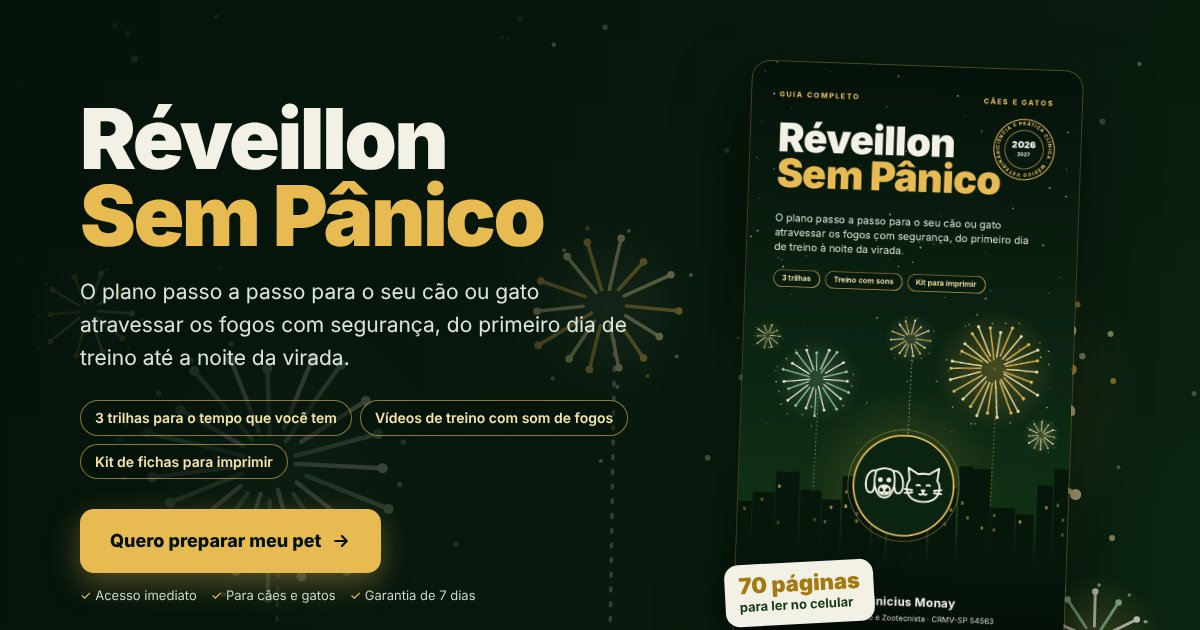
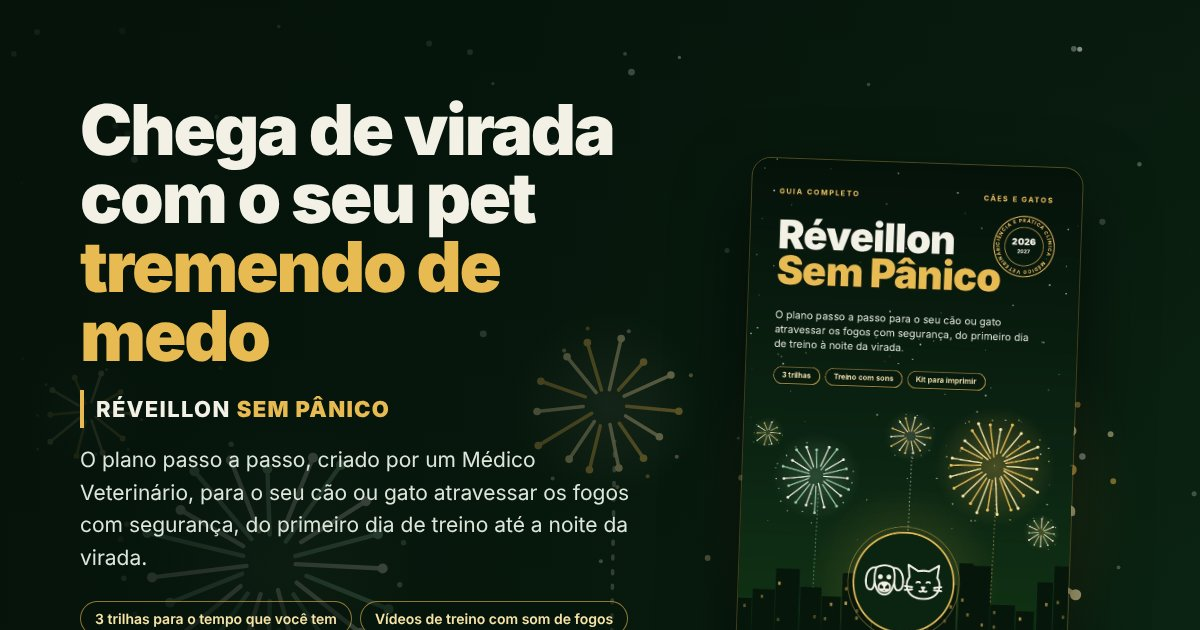
Headline nova e parcelamento em até 6x
Claude-Session: https://claude.ai/code/session_019R319nvtaj1zU2KwUhk84R

Changed region(s): [[0.0617, 0.1508, 0.5858, 1.0], [0.5858, 0.1206, 0.9558, 1.0], [0.8942, 0.5429, 0.925, 0.573]]

diff --git a/index.html b/index.html
@@ -38,9 +38,10 @@ h2 em{font-style:normal;color:var(--golddk)}
 .hero svg.sky{position:absolute;inset:0;width:100%;height:100%;opacity:.95}
 .hero::after{content:"";position:absolute;inset:0;background:linear-gradient(90deg,rgba(5,18,10,.92) 0%,rgba(5,18,10,.7) 46%,rgba(5,18,10,.15) 100%)}
 .hero .wrap{position:relative;z-index:2;display:grid;grid-template-columns:1.15fr .85fr;gap:40px;align-items:center;padding-top:72px;padding-bottom:80px}
-.hero h1{margin:14px 0 0;font-size:clamp(46px,8vw,84px);line-height:.92;letter-spacing:-.03em;font-weight:900}
+.hero h1{margin:16px 0 0;font-size:clamp(40px,6.4vw,70px);line-height:.98;letter-spacing:-.03em;font-weight:900}
+.hero .brand{display:inline-block;margin-top:20px;font-size:clamp(18px,2.2vw,22px);font-weight:800;letter-spacing:.06em;text-transform:uppercase;color:var(--cream);border-left:4px solid var(--gold);padding:2px 0 2px 12px} .hero .brand b{color:var(--gold)}
 .hero h1 em{font-style:normal;color:var(--gold);display:block}
-.hero .sub{font-size:clamp(18px,2.2vw,21px);color:#DCE6DA;margin:22px 0 26px;max-width:560px}
+.hero .sub{font-size:clamp(18px,2.2vw,21px);color:#DCE6DA;margin:16px 0 26px;max-width:560px}
 .chips{display:flex;flex-wrap:wrap;gap:8px;margin:0 0 30px}
 .chips span{border:1px solid rgba(232,186,82,.6);color:var(--gold2);border-radius:99px;padding:6px 14px;font-size:14px;font-weight:600;background:rgba(5,18,10,.4)}
 .hero .by{display:flex;align-items:center;gap:12px;margin-top:28px;font-size:14px;color:#C9D6C8}
@@ -198,11 +199,12 @@ footer a{color:var(--gold2)}
 <div class="wrap">
   <div>
     <span class="countdown" id="cd">Faltam <b data-dias>poucas</b> dias para a virada</span>
-    <h1>Réveillon <em>Sem Pânico</em></h1>
-    <p class="sub">O plano passo a passo para o seu cão ou gato atravessar os fogos com segurança, do primeiro dia de treino até a noite da virada.</p>
+    <h1>Chega de virada com o seu pet <em>tremendo de medo</em></h1>
+    <div class="brand">Réveillon <b>Sem Pânico</b></div>
+    <p class="sub">O plano passo a passo, criado por um Médico Veterinário, para o seu cão ou gato atravessar os fogos com segurança, do primeiro dia de treino até a noite da virada.</p>
     <div class="chips"><span>3 trilhas para o tempo que você tem</span><span>Vídeos de treino com som de fogos</span><span>Kit de fichas para imprimir</span></div>
     <a class="btn" href="#oferta" data-cta>Quero preparar meu pet <svg viewBox="0 0 24 24" fill="none" stroke="currentColor" stroke-width="2.6" stroke-linecap="round" stroke-linejoin="round"><path d="M5 12h14M13 6l6 6-6 6"/></svg></a>
-    <div class="micro"><span>Acesso imediato</span><span>Pix ou até 12x no cartão</span><span>Garantia de 7 dias</span></div>
+    <div class="micro"><span>Acesso imediato</span><span>Pix ou até 6x no cartão</span><span>Garantia de 7 dias</span></div>
     <div class="by"><svg viewBox="0 0 64 64" width="38" height="38" aria-hidden="true"><g fill="none" stroke="#F3F1E6" stroke-width="2.4" stroke-linecap="round" stroke-linejoin="round">
 <path d="M21 15c3-2 7-3 11-3s8 1 11 3c2 6 3 14 1 22-2 8-6 13-12 13s-10-5-12-13c-2-8-1-16 1-22z"/>
 <path d="M21 15c-6-1-12 4-13 14-1 8 1 14 5 15 4 1 6-4 6-11"/><path d="M43 15c6-1 12 4 13 14 1 8-1 14-5 15-4 1-6-4-6-11"/>
@@ -365,7 +367,7 @@ footer a{color:var(--gold2)}
     <ul><li>Guia completo de 70 páginas</li><li>Kit com 13 fichas para imprimir</li><li>Diário de Treino com calendário automático</li><li>4 vídeos de treino com som de fogos em 6 níveis</li><li>Ruído marrom para o ambiente, para baixar</li><li>Os produtos que eu indico, com o que procurar</li><li>Bônus: 10% na consultoria nutricional</li></ul>
     <div class="price"><div class="v"><small>R$</small><span data-preco>47</span></div><div class="p"><span data-parcelas>pagamento único</span><br><span style="font-size:13px">à vista no Pix · acesso imediato</span></div></div>
     <a class="btn" href="#oferta" data-cta data-checkout>Quero o Réveillon Sem Pânico</a>
-    <div class="secure"><span>🔒 Pagamento seguro</span><span>✉ Acesso por e-mail</span><span>💳 Pix ou até 12x no cartão</span></div>
+    <div class="secure"><span>🔒 Pagamento seguro</span><span>✉ Acesso por e-mail</span><span>💳 Pix ou até 6x no cartão</span></div>
   </div>
   <div class="guar"><div class="seal">7<small>DIAS</small></div><div><b style="color:var(--cream)">Garantia de 7 dias.</b> Se achar que o guia não é para você, pede o reembolso pela plataforma de pagamento e recebe 100% do valor de volta. Sem perguntas.</div></div>
 </div>
@@ -402,7 +404,7 @@ footer a{color:var(--gold2)}
 const CONFIG = {
   checkout: "https://pay.kiwify.com.br/F8LB1Db",  // link do checkout da Kiwify
   preco: "47",       // preço à vista, só o número
-  parcelas: "em até 12x no cartão",  // troque pelo valor exato da Kiwify, ex.: "em até 12x de R$ 4,86"
+  parcelas: "em até 6x no cartão",  // ex.: "em até 6x de R$ 8,50"
   pixel: ""          // ID do Pixel da Meta, só os números
 };
 
